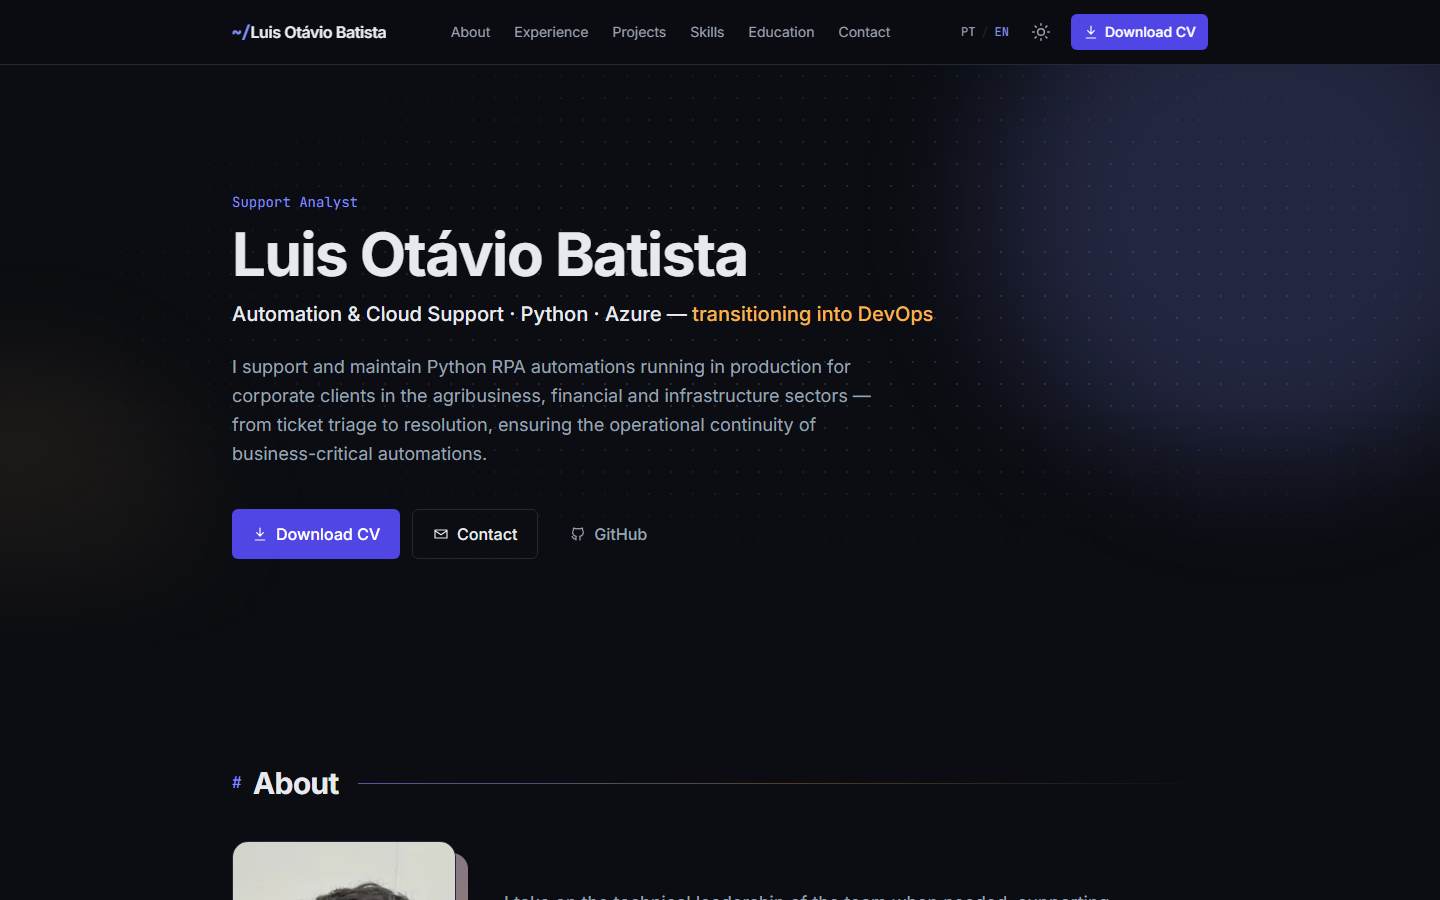
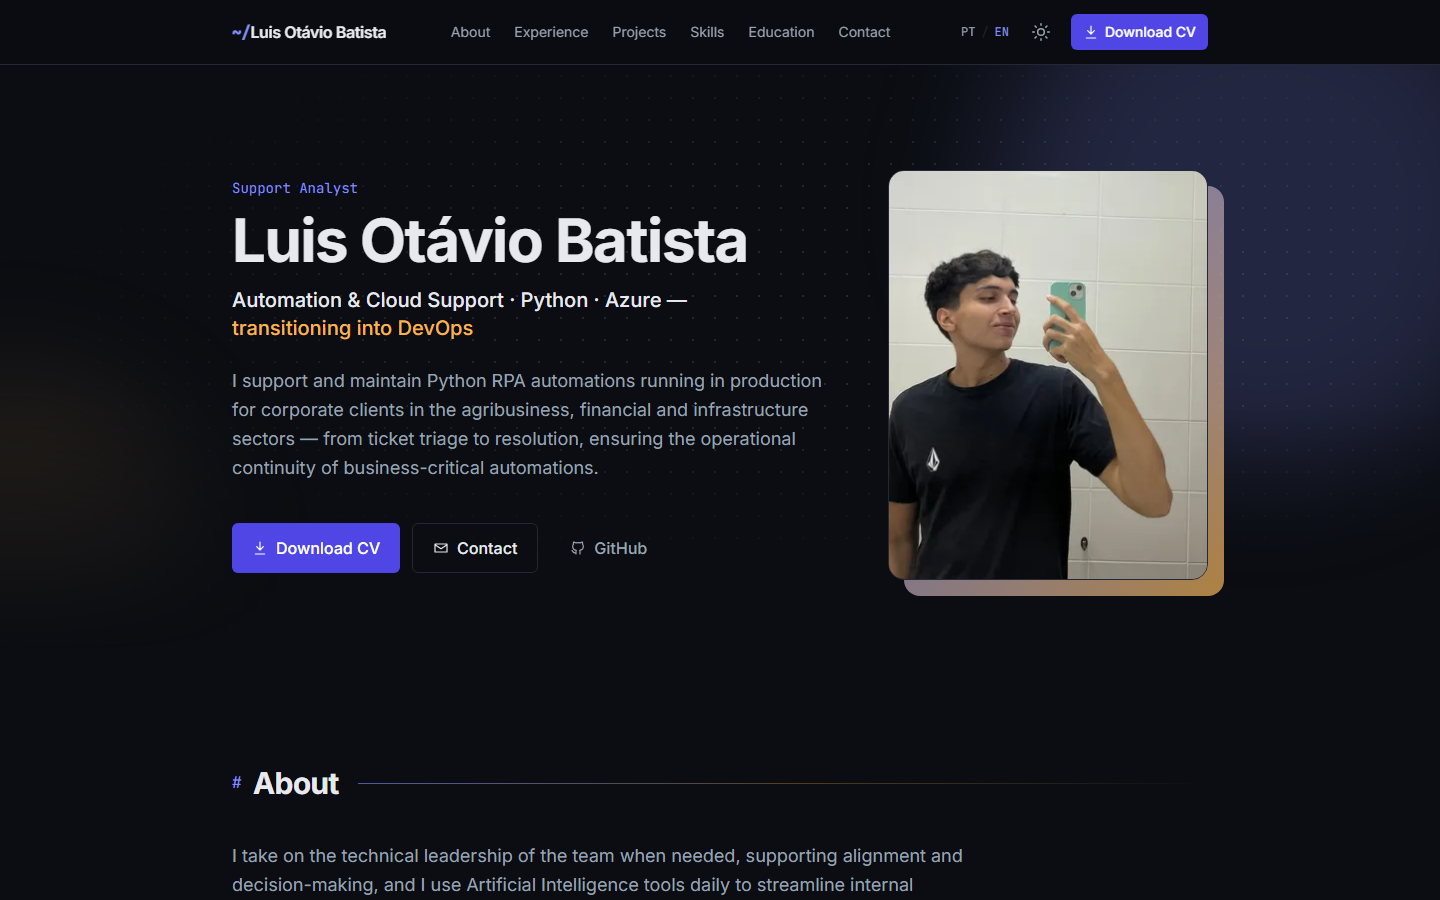
Foto no hero e seção de scripts de DevOps
- Hero em duas colunas: foto quase inteira à direita (moldura em gradiente),
  abaixo dos botões no mobile; Sobre volta a ser só texto
- Headline: destaque "em transição para DevOps" sempre em uma linha
- Nova coleção "ferramentas" para projetos sem interface (scripts, health
  checks, hardening): ToolCard estilo terminal com link direto ao GitHub
- Primeiro item: health-check (conteúdo tirado do README público)
- Capturas de prévia do portfólio refeitas com o novo hero

diff --git a/src/i18n/pt.ts b/src/i18n/pt.ts
@@ -4,6 +4,7 @@ export const pt = {
     'Suporte & Automação em Cloud · Python · Azure — em transição para DevOps',
 
   'hero.role': 'Analista de Suporte',
+  'hero.photoAlt': 'Foto de Luis Otávio Batista',
   'hero.headline': 'Suporte & Automação em Cloud · Python · Azure —',
   'hero.headlineHighlight': 'em transição para DevOps',
   'hero.valueProp':
@@ -12,11 +13,14 @@ export const pt = {
   'hero.github': 'GitHub',
   'hero.newTab': '(abre em nova aba)',
 
-  'about.photoAlt': 'Foto de Luis Otávio Batista',
   'about.body':
     'Desempenho papel de liderança técnica no time quando necessário, contribuindo para o alinhamento e a tomada de decisões, e uso ferramentas de Inteligência Artificial no dia a dia para otimizar fluxos internos e desenvolver soluções. Formado em Análise e Desenvolvimento de Sistemas pela Fatec Americana, estou em transição para DevOps/Cloud, com desenvolvimento contínuo em Linux, Git, redes TCP/IP e Azure.',
 
   'projects.details': 'Ver detalhes',
+  'tools.title': 'Scripts & automações de infraestrutura',
+  'tools.description':
+    'Ferramentas menores de DevOps, sem interface gráfica: monitoramento, rotinas de manutenção e automações de servidor.',
+  'tools.cta': 'Ver código',
   'project.back': 'Voltar para projetos',
   'project.stack': 'Stack',
   'project.repo': 'Repositório',

diff --git a/src/i18n/en.ts b/src/i18n/en.ts
@@ -6,6 +6,7 @@ export const en: Record<TranslationKey, string> = {
     'Automation & Cloud Support · Python · Azure — transitioning into DevOps',
 
   'hero.role': 'Support Analyst',
+  'hero.photoAlt': 'Photo of Luis Otávio Batista',
   'hero.headline': 'Automation & Cloud Support · Python · Azure —',
   'hero.headlineHighlight': 'transitioning into DevOps',
   'hero.valueProp':
@@ -14,11 +15,14 @@ export const en: Record<TranslationKey, string> = {
   'hero.github': 'GitHub',
   'hero.newTab': '(opens in a new tab)',
 
-  'about.photoAlt': 'Photo of Luis Otávio Batista',
   'about.body':
     'I take on the technical leadership of the team when needed, supporting alignment and decision-making, and I use Artificial Intelligence tools daily to streamline internal workflows and build solutions. With a degree in Systems Analysis and Development from Fatec Americana, I am transitioning into DevOps/Cloud, continuously developing my skills in Linux, Git, TCP/IP networking and Azure.',
 
   'projects.details': 'View details',
+  'tools.title': 'Infrastructure scripts & automation',
+  'tools.description':
+    'Smaller DevOps tools without a UI: monitoring, maintenance routines and server automation.',
+  'tools.cta': 'View code',
   'project.back': 'Back to projects',
   'project.stack': 'Stack',
   'project.repo': 'Repository',

diff --git a/src/content.config.ts b/src/content.config.ts
@@ -32,4 +32,24 @@ const projetos = defineCollection({
       }),
 });
 
-export const collections = { projetos };
+/**
+ * Smaller DevOps/infra tools without a UI (scripts, health checks, hardening...).
+ * Frontmatter only — each card links straight to the GitHub repository:
+ *   src/content/ferramentas/pt/<slug>.md
+ *   src/content/ferramentas/en/<slug>.md
+ */
+const ferramentas = defineCollection({
+  loader: glob({ pattern: '**/*.md', base: './src/content/ferramentas' }),
+  schema: z.object({
+    /** Repository-style name, shown as ~/<name>. */
+    name: z.string(),
+    summary: z.string(),
+    /** 2–4 short feature lines. */
+    highlights: z.array(z.string()).min(1).max(4),
+    stack: z.array(z.string()).min(1),
+    repo: z.url(),
+    order: z.number().int(),
+  }),
+});
+
+export const collections = { projetos, ferramentas };

diff --git a/src/lib/projects.ts b/src/lib/projects.ts
@@ -13,6 +13,13 @@ export async function getProjects(lang: Lang): Promise<Project[]> {
   return projects.sort((a, b) => a.data.order - b.data.order);
 }
 
+export type Tool = CollectionEntry<'ferramentas'>;
+
+export async function getTools(lang: Lang): Promise<Tool[]> {
+  const tools = await getCollection('ferramentas', ({ id }) => id.startsWith(`${lang}/`));
+  return tools.sort((a, b) => a.data.order - b.data.order);
+}
+
 export function projectPath(lang: Lang, slug: string): string {
   return lang === 'pt' ? `/projetos/${slug}/` : `/en/projects/${slug}/`;
 }

diff --git a/src/content/ferramentas/pt/health-check.md b/src/content/ferramentas/pt/health-check.md
@@ -1,0 +1,12 @@
+---
+name: health-check
+summary: Monitora a disponibilidade de servidores via HTTP e envia alerta por e-mail quando algo falha.
+highlights:
+  - Verifica vários servidores via HTTP
+  - Alerta por e-mail em timeout ou status inesperado
+  - Configuração em arquivo YAML
+  - Execução agendada via cron
+stack: [Python, YAML, cron]
+repo: https://github.com/LuiszOtavio/health-check
+order: 1
+---

diff --git a/src/content/ferramentas/en/health-check.md b/src/content/ferramentas/en/health-check.md
@@ -1,0 +1,12 @@
+---
+name: health-check
+summary: Monitors server availability over HTTP and sends an email alert when something fails.
+highlights:
+  - Checks multiple servers over HTTP
+  - Email alert on timeout or unexpected status code
+  - Configured through a YAML file
+  - Scheduled via cron
+stack: [Python, YAML, cron]
+repo: https://github.com/LuiszOtavio/health-check
+order: 1
+---
